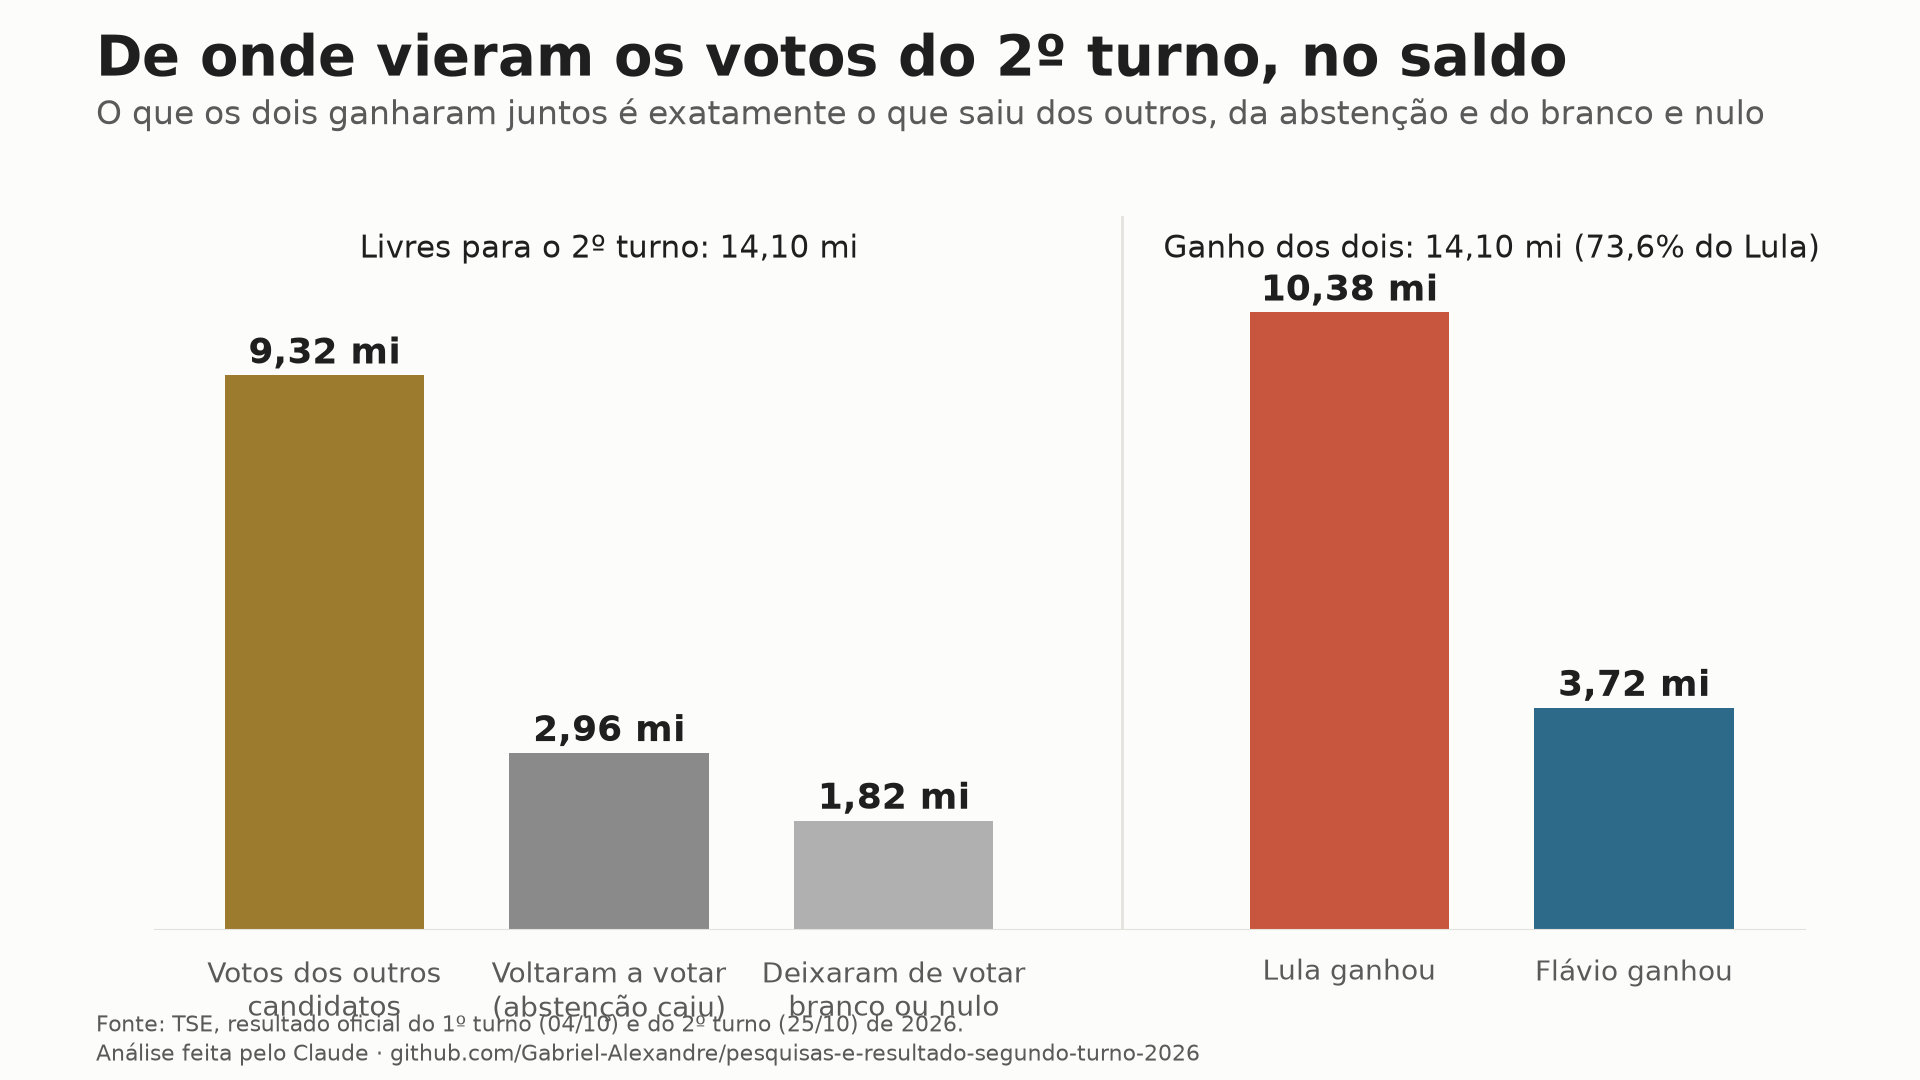
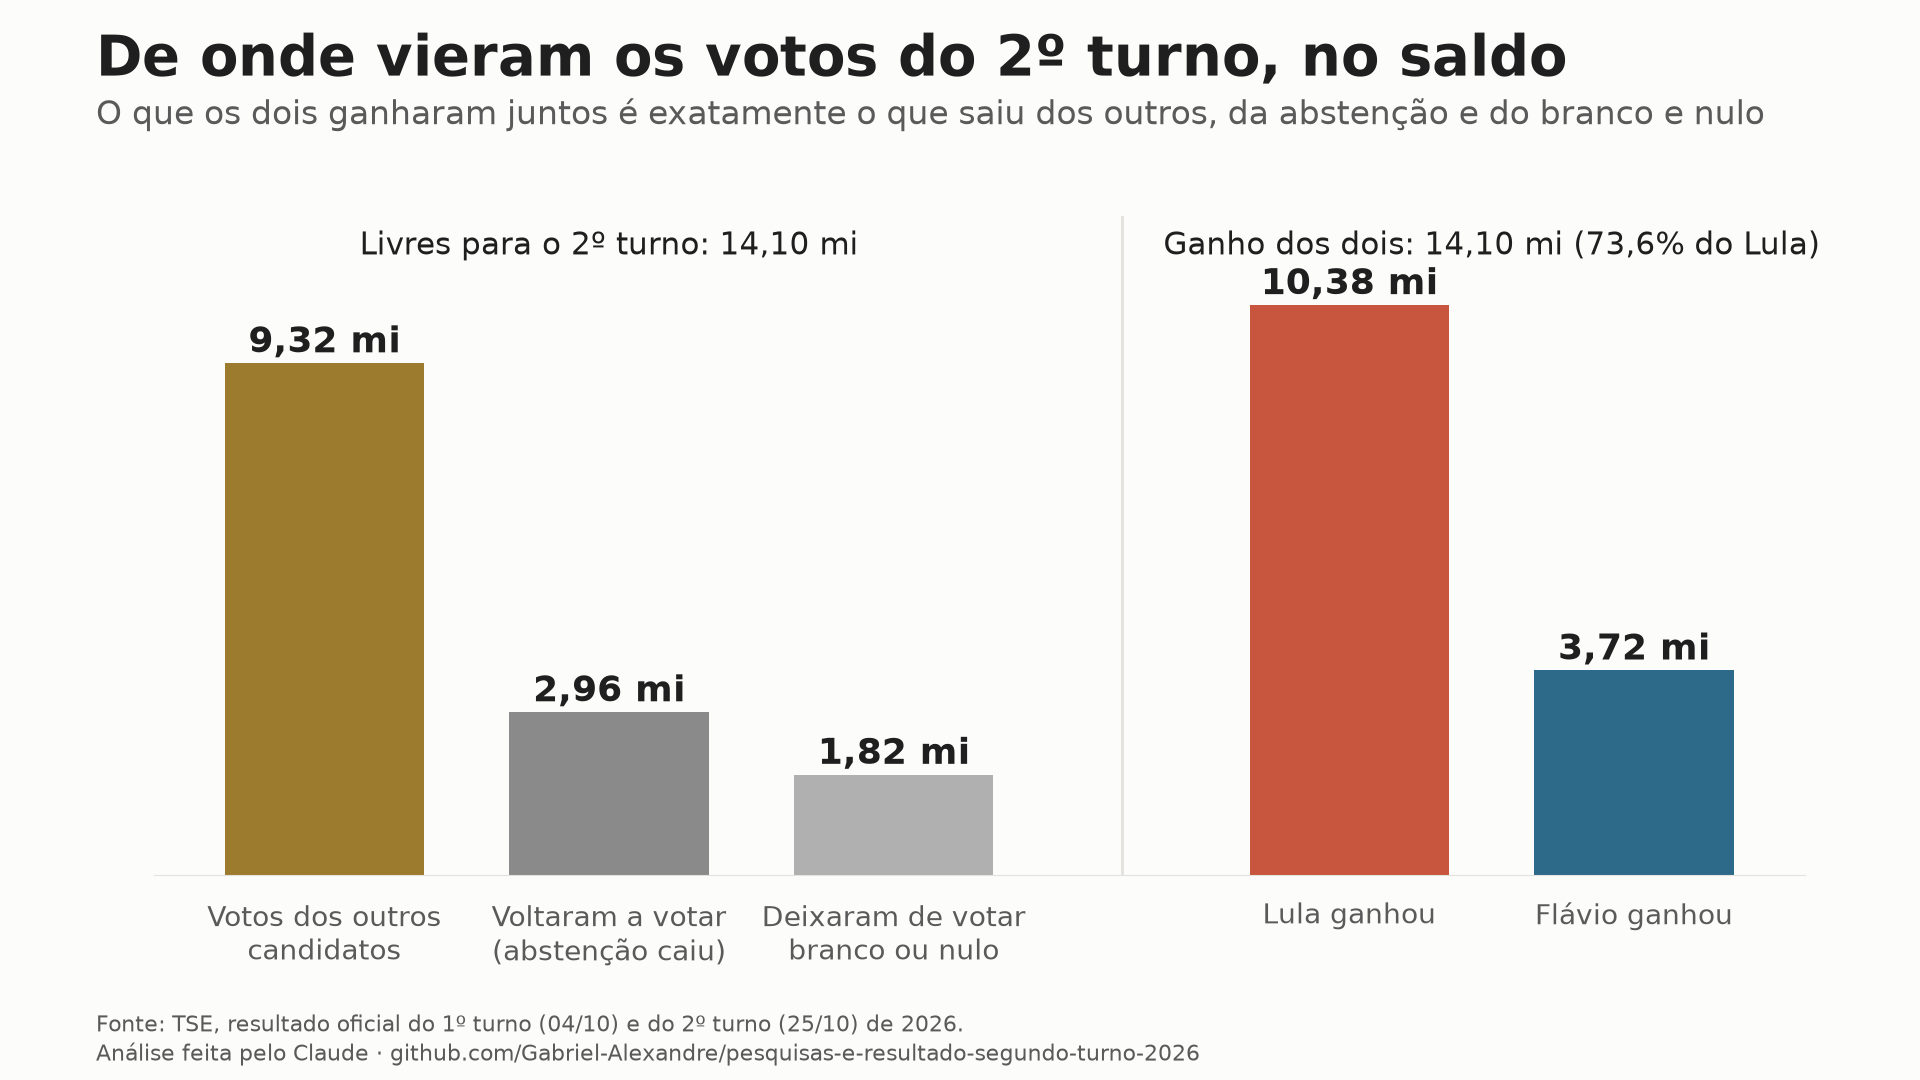
Rodada 5, ajustes: o transporte gratuito valeu nos 2 turnos (não explica sozinho a subida do comparecimento), rótulos do g01 e do g23, e o ESTADO aponta para o roteiro do vídeo 19

diff --git a/ferramentas/gerar-relatorio.py b/ferramentas/gerar-relatorio.py
@@ -228,7 +228,7 @@ A posição de cada candidato, com o link da fonte, está em `dados/agentes/apoi
 |---|---|---|---|---|---|
 {tab_comp}
 
-- **O comparecimento:** de 2002 a 2018 ele sempre caiu do 1º para o 2º turno ({sinal(ate18.comparecimento_variou_pontos.max(), 1)} a {sinal(ate18.comparecimento_variou_pontos.min(), 1)} ponto), e subiu em no máximo {br(ate18.municipios_comparecimento_subiu_pct.max(), 0)}% dos municípios. Em 2022 subiu pela primeira vez ({sinal(m22c.comparecimento_variou_pontos, 2)}, em {br(m22c.municipios_comparecimento_subiu_pct, 0)}% dos municípios). Em 2026 subiu {sinal(m26c.comparecimento_variou_pontos, 2)}, em {br(m26c.municipios_comparecimento_subiu_pct, 0)}% dos municípios: **o maior da série, {br(m26c.comparecimento_variou_pontos / m22c.comparecimento_variou_pontos, 0)} vezes o de 2022.** Em 2026, o transporte de graça no dia da votação era regra no país inteiro (Resolução TSE nº 23.751/2026, em `dados/agentes/fatos_entre_os_turnos.md`).
+- **O comparecimento:** de 2002 a 2018 ele sempre caiu do 1º para o 2º turno ({sinal(ate18.comparecimento_variou_pontos.max(), 1)} a {sinal(ate18.comparecimento_variou_pontos.min(), 1)} ponto), e subiu em no máximo {br(ate18.municipios_comparecimento_subiu_pct.max(), 0)}% dos municípios. Em 2022 subiu pela primeira vez ({sinal(m22c.comparecimento_variou_pontos, 2)}, em {br(m22c.municipios_comparecimento_subiu_pct, 0)}% dos municípios). Em 2026 subiu {sinal(m26c.comparecimento_variou_pontos, 2)}, em {br(m26c.municipios_comparecimento_subiu_pct, 0)}% dos municípios: **o maior da série, {br(m26c.comparecimento_variou_pontos / m22c.comparecimento_variou_pontos, 0)} vezes o de 2022.** Em 2026, o transporte de graça no dia da votação era regra no país inteiro (Resolução TSE nº 23.751/2026, em `dados/agentes/fatos_entre_os_turnos.md`), só que nos 2 turnos, então ele sozinho não explica a subida de um turno para o outro.
 - **Onde ele subiu:** mais nas cidades de renda maior (a abstenção caiu {br(gr.iloc[-1].abstencao_caiu_pontos)} ponto nos 20% de municípios mais ricos e ficou parada nos 20% mais pobres) e não onde o PT era mais forte (a correlação entre a força do PT no 1º turno e a queda da abstenção foi {br(h26.corr_forca_pt_1t_e_queda_abstencao, 2)} em 2026, contra {br(hist[hist.ano < 2026].corr_forca_pt_1t_e_queda_abstencao.min(), 2)} a {br(hist[hist.ano < 2026].corr_forca_pt_1t_e_queda_abstencao.max(), 2)} nas outras).
 - **A virada espalhada:** em 2026 a diferença andou para o Lula em {br(m26c.municipios_mesmo_lado_do_pais_pct, 0)}% dos municípios. Em 2006, o outro ano em que ela andou muito a favor do PT, foram {br(cm5[cm5.ano == 2006].municipios_mesmo_lado_do_pais_pct.iloc[0], 0)}%. Quando a diferença anda muito no país, ela anda em quase todo lugar. O desvio entre municípios ({br(m26c.desvio_da_virada_entre_municipios, 2)} ponto) é o menor da série, perto do de 2022 ({br(m22c.desvio_da_virada_entre_municipios, 2)}): nos dois anos, poucos votos estavam livres (os eliminados somaram {br(100 * OL / t1['validos'], 1)}% dos válidos em 2026), e movimento pequeno sai mais igual.
 

diff --git a/ferramentas/graficos.py b/ferramentas/graficos.py
@@ -59,7 +59,7 @@ def g01_de_onde_vieram(R):
     v, t1 = R["resultado"]["variacao"], R["resultado"]["t1"]
     fig = figura("De onde vieram os votos do 2º turno, no saldo",
                  "O que os dois ganharam juntos é exatamente o que saiu dos outros, da abstenção e do branco e nulo")
-    ax = fig.add_axes([0.08, 0.14, 0.86, 0.66])
+    ax = fig.add_axes([0.08, 0.19, 0.86, 0.61])
     itens = [("Votos dos outros\ncandidatos", -v["outros_candidatos"], OUTROS), ("Voltaram a votar\n(abstenção caiu)", -v["abstencao"], "#8A8A8A"),
              ("Deixaram de votar\nbranco ou nulo", -v["branco_nulo"], "#B0B0B0"), ("Lula ganhou", v["lula"], COR["lula"]), ("Flávio ganhou", v["flavio"], COR["flavio"])]
     x = [0, 1, 2, 3.6, 4.6]

diff --git a/RELATORIO.md b/RELATORIO.md
@@ -47,7 +47,7 @@ A posição de cada candidato, com o link da fonte, está em `dados/agentes/apoi
 | 2022 | +0,36 | 3.604 (65%) | -3,4 | 83% | 2,16 |
 | 2026 | +1,85 | 4.440 (80%) | +5,4 | 97% | 1,87 |
 
-- **O comparecimento:** de 2002 a 2018 ele sempre caiu do 1º para o 2º turno (-1,0 a -3,4 ponto), e subiu em no máximo 13% dos municípios. Em 2022 subiu pela primeira vez (+0,36, em 65% dos municípios). Em 2026 subiu +1,85, em 80% dos municípios: **o maior da série, 5 vezes o de 2022.** Em 2026, o transporte de graça no dia da votação era regra no país inteiro (Resolução TSE nº 23.751/2026, em `dados/agentes/fatos_entre_os_turnos.md`).
+- **O comparecimento:** de 2002 a 2018 ele sempre caiu do 1º para o 2º turno (-1,0 a -3,4 ponto), e subiu em no máximo 13% dos municípios. Em 2022 subiu pela primeira vez (+0,36, em 65% dos municípios). Em 2026 subiu +1,85, em 80% dos municípios: **o maior da série, 5 vezes o de 2022.** Em 2026, o transporte de graça no dia da votação era regra no país inteiro (Resolução TSE nº 23.751/2026, em `dados/agentes/fatos_entre_os_turnos.md`), só que nos 2 turnos, então ele sozinho não explica a subida de um turno para o outro.
 - **Onde ele subiu:** mais nas cidades de renda maior (a abstenção caiu 2,5 ponto nos 20% de municípios mais ricos e ficou parada nos 20% mais pobres) e não onde o PT era mais forte (a correlação entre a força do PT no 1º turno e a queda da abstenção foi -0,06 em 2026, contra -0,33 a 0,28 nas outras).
 - **A virada espalhada:** em 2026 a diferença andou para o Lula em 97% dos municípios. Em 2006, o outro ano em que ela andou muito a favor do PT, foram 100%. Quando a diferença anda muito no país, ela anda em quase todo lugar. O desvio entre municípios (1,87 ponto) é o menor da série, perto do de 2022 (2,16): nos dois anos, poucos votos estavam livres (os eliminados somaram 7,8% dos válidos em 2026), e movimento pequeno sai mais igual.
 
